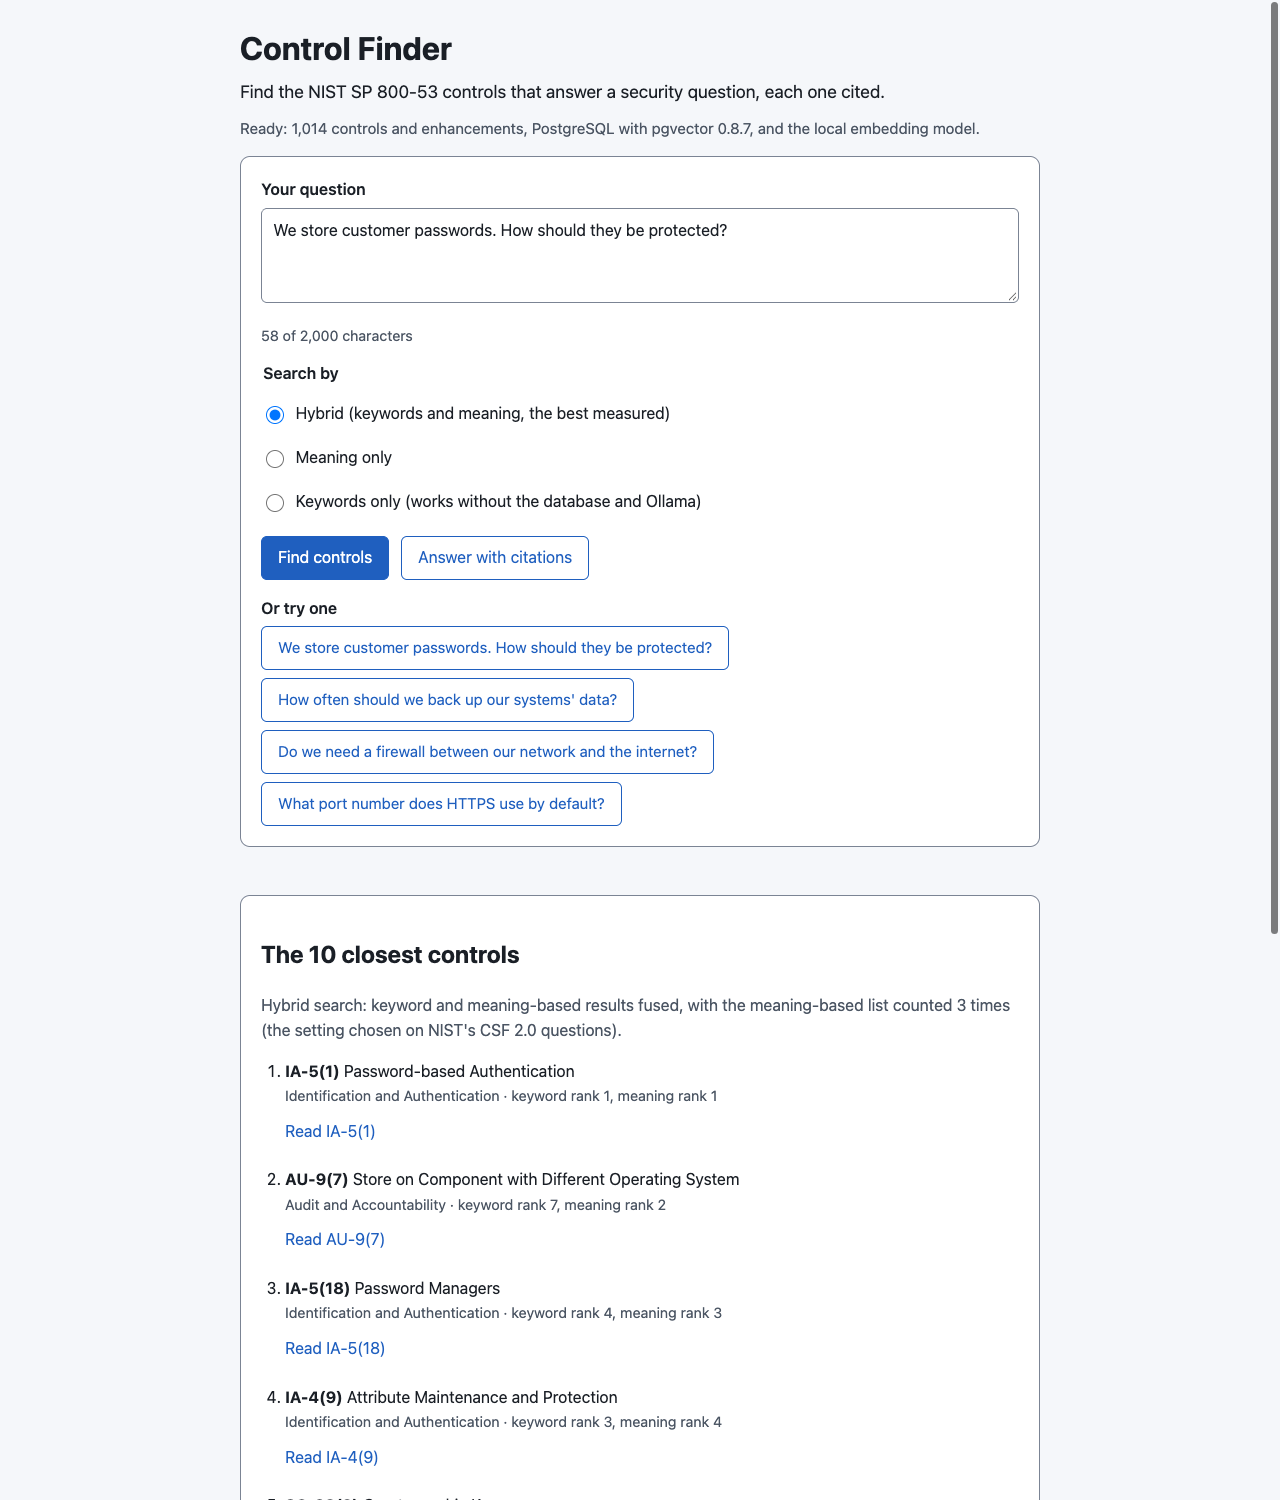
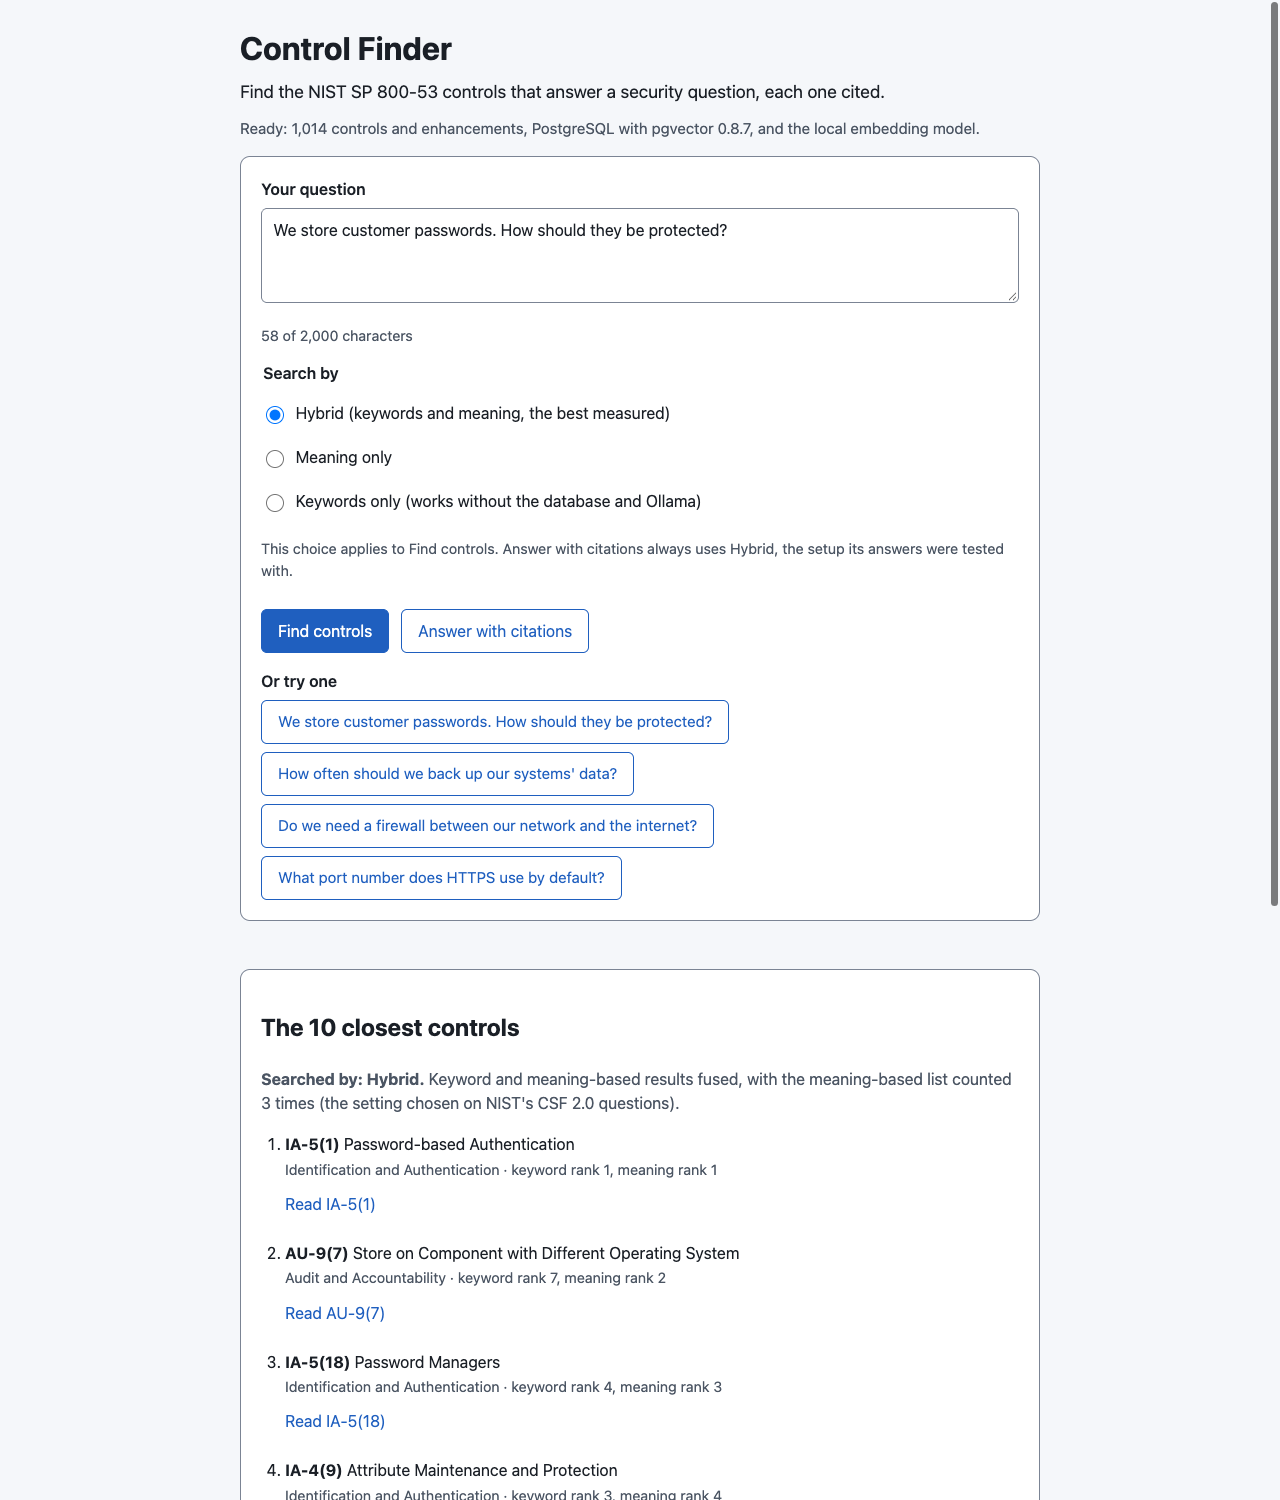
Website: say which search each list and answer used (#12)
The "Search by" choice changes only Find controls, but the page didn't say so.
Answers always use hybrid search, the setup they were measured with, so they
came out the same whatever was picked. And changing the choice left the
earlier results on the page with nothing to say they were stale.

- Every list now starts with "Searched by:" and the choice's name, in the
  form's own words.
- A note under the choices says answers always use Hybrid, and the answer
  says the model saw the Hybrid search's top 10.
- Changing the choice after a search shows a notice asking for a new search.
- 3 new website tests (23 in all). The browser check has 4 new checks, and
  25 of 25 pass. 5 planted bugs were each caught (4 by the website tests,
  1 by the browser check).
- The README and the write-up are updated, and the screenshots retaken.

Changed region(s): [[0.1875, 0.3373, 0.7812, 1.0]]

diff --git a/web/src/App.test.tsx b/web/src/App.test.tsx
@@ -2,17 +2,18 @@
 import { renderToStaticMarkup } from "react-dom/server";
 import { describe, expect, it } from "vitest";
 import { CONTENT_SECURITY_POLICY } from "../vite.config";
-import { EXAMPLES, Page, type View } from "./App";
+import { EXAMPLES, METHODS, Page, type View } from "./App";
 import { Detail } from "./components/ControlText";
+import { METHOD_NAMES } from "./components/Results";
 import type { Fetch } from "./lib/api";
-import type { AnswerResponse, SearchResponse } from "./lib/types";
+import type { AnswerResponse, Method, SearchResponse } from "./lib/types";
 
 const noFetch: Fetch = async () => {
   throw new Error("no network in these tests");
 };
-const render = (view: View, question = "We store customer passwords. How should they be protected?") =>
+const render = (view: View, question = "We store customer passwords. How should they be protected?", method: Method = "hybrid") =>
   renderToStaticMarkup(
-    <Page question={question} method="hybrid" view={view} status={null} fetchFn={noFetch} onQuestion={() => {}} onMethod={() => {}} onRun={() => {}} />,
+    <Page question={question} method={method} view={view} status={null} fetchFn={noFetch} onQuestion={() => {}} onMethod={() => {}} onRun={() => {}} />,
   );
 
 const results: SearchResponse = {
@@ -65,7 +66,29 @@ describe("the page", () => {
     expect(html).toContain('<span class="badge covered">Covered</span>');
     expect(html).toContain("in 4.3 s");
     expect(html).toContain("Cited controls");
-    expect(html).toContain("From a local model (qwen3:8b) that saw only the search&#x27;s top 2 controls: IA-5(18), IA-5(1)."); // as NIST prints them
+    expect(html).toContain("From a local model (qwen3:8b) that saw only the Hybrid search&#x27;s top 2 controls: IA-5(18), IA-5(1)."); // as NIST prints them
+  });
+
+  it("says the search choice applies to Find controls, and that answers always use Hybrid", () => {
+    const html = render({ kind: "idle" }, "");
+    expect(html).toContain('<fieldset aria-describedby="method-note">');
+    expect(html).toContain("This choice applies to Find controls. Answer with citations always uses Hybrid");
+    for (const m of METHODS) expect(m.label.startsWith(METHOD_NAMES[m.value]), m.value).toBe(true); // the same names everywhere
+  });
+
+  it("names the choice that found each list", () => {
+    for (const method of ["hybrid", "vector", "keyword"] as const) {
+      const html = render({ kind: "results", data: { ...results, method } }, undefined, method);
+      expect(html).toContain(`<strong>Searched by: ${METHOD_NAMES[method]}.</strong>`);
+      expect(html).not.toContain("You changed");
+    }
+  });
+
+  it("asks for a new search when the choice changes after one", () => {
+    const html = render({ kind: "results", data: results }, undefined, "vector");
+    expect(html).toContain("<strong>Searched by: Hybrid.</strong>"); // the list on the page is still hybrid's
+    expect(html).toContain("You changed &quot;Search by&quot; to &quot;Meaning only&quot;. Click Find controls to search again.");
+    expect(render({ kind: "answer", data: covered, seconds: 4.33 }, undefined, "keyword")).not.toContain("You changed"); // answers don't depend on it
   });
 
   it("shows a not-covered answer without citations", () => {

diff --git a/web/src/App.tsx b/web/src/App.tsx
@@ -1,6 +1,6 @@
 import { useEffect, useRef, useState } from "react";
 import { AnswerCard } from "./components/AnswerCard";
-import { Results } from "./components/Results";
+import { METHOD_NAMES, Results } from "./components/Results";
 import { answer, browserFetch, health, MAX_QUESTION, search, statusLine, type Fetch } from "./lib/api";
 import type { AnswerResponse, Health, Method, SearchResponse } from "./lib/types";
 
@@ -12,7 +12,7 @@ export const EXAMPLES = [
   "What port number does HTTPS use by default?",
 ];
 
-const METHODS: { value: Method; label: string }[] = [
+export const METHODS: { value: Method; label: string }[] = [
   { value: "hybrid", label: "Hybrid (keywords and meaning, the best measured)" },
   { value: "vector", label: "Meaning only" },
   { value: "keyword", label: "Keywords only (works without the database and Ollama)" },
@@ -40,6 +40,8 @@ interface PageProps {
 export function Page({ question, method, view, status, fetchFn, onQuestion, onMethod, onRun }: PageProps) {
   const s = statusLine(status);
   const busy = view.kind === "busy";
+  // The list on the page came from another choice than the one now picked.
+  const changedTo = view.kind === "results" && view.data.method !== method ? method : null;
   return (
     <>
       <a className="skip" href="#question">
@@ -74,7 +76,7 @@ export function Page({ question, method, view, status, fetchFn, onQuestion, onMe
           <p className="muted small">
             {question.length.toLocaleString("en-US")} of {MAX_QUESTION.toLocaleString("en-US")} characters
           </p>
-          <fieldset>
+          <fieldset aria-describedby="method-note">
             <legend className="field-label">Search by</legend>
             {METHODS.map((m) => (
               <label key={m.value} className="choice">
@@ -82,6 +84,9 @@ export function Page({ question, method, view, status, fetchFn, onQuestion, onMe
                 {m.label}
               </label>
             ))}
+            <p id="method-note" className="muted small">
+              This choice applies to Find controls. Answer with citations always uses Hybrid, the setup its answers were tested with.
+            </p>
           </fieldset>
           <div className="actions">
             <button type="submit" disabled={busy}>
@@ -107,6 +112,11 @@ export function Page({ question, method, view, status, fetchFn, onQuestion, onMe
         <div aria-live="polite" className="busy">
           {view.kind === "busy" &&
             (view.what === "search" ? "Searching…" : "Asking the local model. An answer takes a few seconds, longer the first time.")}
+          {changedTo && (
+            <span className="notice">
+              You changed "Search by" to "{METHOD_NAMES[changedTo]}". Click Find controls to search again.
+            </span>
+          )}
         </div>
         {view.kind === "error" && (
           <p role="alert" className="card error">

diff --git a/web/src/components/Results.tsx b/web/src/components/Results.tsx
@@ -1,11 +1,14 @@
 import type { Fetch } from "../lib/api";
-import type { Found, SearchResponse } from "../lib/types";
+import type { Found, Method, SearchResponse } from "../lib/types";
 import { ControlText } from "./ControlText";
 
+// The names of the form's "Search by" choices, so a list says which choice found it.
+export const METHOD_NAMES: Record<Method, string> = { hybrid: "Hybrid", vector: "Meaning only", keyword: "Keywords only" };
+
 const METHOD_NOTES = {
-  hybrid: "Hybrid search: keyword and meaning-based results fused, with the meaning-based list counted 3 times (the setting chosen on NIST's CSF 2.0 questions).",
-  vector: "Search by meaning, with the local embedding model (nomic-embed-text).",
-  keyword: "Keyword search (BM25). It works even when the database or the embedding model isn't running.",
+  hybrid: "Keyword and meaning-based results fused, with the meaning-based list counted 3 times (the setting chosen on NIST's CSF 2.0 questions).",
+  vector: "It compares the question's meaning with each control's, using the local embedding model (nomic-embed-text).",
+  keyword: "It matches the question's words (BM25 keyword search), and works even when the database or the embedding model isn't running.",
 };
 
 function ranks(r: Found): string {
@@ -20,7 +23,9 @@ export function Results({ data, fetchFn }: { data: SearchResponse; fetchFn: Fetc
       <h2 id="results-heading" tabIndex={-1}>
         {n === 0 ? "No controls found" : `The ${n} closest control${n === 1 ? "" : "s"}`}
       </h2>
-      <p className="muted">{METHOD_NOTES[data.method]}</p>
+      <p className="muted">
+        <strong>Searched by: {METHOD_NAMES[data.method]}.</strong> {METHOD_NOTES[data.method]}
+      </p>
       {n === 0 && <p>No control shares the question's words. Try hybrid search, which also searches by meaning.</p>}
       <ol className="results">
         {data.results.map((r) => (

diff --git a/web/src/components/AnswerCard.tsx b/web/src/components/AnswerCard.tsx
@@ -29,7 +29,7 @@ export function AnswerCard({ data, seconds, fetchFn }: { data: AnswerResponse; s
         </>
       )}
       <p className="muted small">
-        From a local model ({data.model}) that saw only the search's top {data.shown.length} controls: {data.shown.map(labelOf).join(", ")}. Its
+        From a local model ({data.model}) that saw only the Hybrid search's top {data.shown.length} controls: {data.shown.map(labelOf).join(", ")}. Its
         citations can only name those. Check a cited control's text before relying on it.
       </p>
     </section>

diff --git a/web/src/styles.css b/web/src/styles.css
@@ -192,6 +192,14 @@ button.example {
   color: var(--muted);
 }
 
+.notice {
+  display: inline-block;
+  background: var(--warn-bg);
+  color: var(--warn-text);
+  padding: 0.35rem 0.75rem;
+  border-radius: 6px;
+}
+
 .error {
   background: var(--error-bg);
   color: var(--error-text);

diff --git a/docs/write-up.md b/docs/write-up.md
@@ -55,9 +55,11 @@ The main weakness is citing too much: 4.15 controls per answer on NIST's test qu
 An MCP server gives Claude Desktop, Claude Code, and other MCP clients three read-only tools: `search_controls`, `get_control`, and `answer_question`. It searches in memory, which the database step showed gives the same rankings, so it needs only Ollama. Over stdio, with the model embedding each question live, it gave the published top 20 for all 203 questions, connected in 336 ms, and answered later searches in 12.7 ms. Its instructions ask the assistant to cite controls by label, describe only what a control's text says, and pass on "not covered" instead of answering from general knowledge.
 
 ## Seeing it work: a local website
-A small React and TypeScript website, served by the API at http://127.0.0.1:8000/, puts it all on one page. You type a question, see the closest controls, open any control's text and what an assessor checks, or ask for a cited answer. One script starts everything. A browser check clicks through the site in headless Chrome on a desktop and a phone, in light and dark mode, and all 21 of its checks pass. Every color pair meets WCAG AA contrast in both themes, and the page may only talk to its own API.
+A small React and TypeScript website, served by the API at http://127.0.0.1:8000/, puts it all on one page. You type a question, see the closest controls, open any control's text and what an assessor checks, or ask for a cited answer. One script starts everything. A browser check clicks through the site in headless Chrome on a desktop and a phone, in light and dark mode, and all 25 of its checks pass. Every color pair meets WCAG AA contrast in both themes, and the page may only talk to its own API.
 
 Looking at the screenshots caught a bug the tests had missed: the line listing the controls the model saw showed ids like "ia-5.1" instead of NIST's labels like "IA-5(1)". The API sends ids there, but my test data had used labels. The test data now matches the API, and the browser check looks for the labels.
+
+Trying the site by hand found a second problem: the "Search by" choice seemed to do nothing. It applies only to Find controls, because answers always use hybrid search, the setup they were measured with. And changing it left the earlier results on the page with nothing to say they were stale. The page now says which search found every list and answer, notes under the choice that answers always use hybrid, and asks for a new search when the choice changes.
 
 ## What I'd do next
 - **Cite less.** Ask for the single best control first, or rerank before answering, and measure whether precision rises without losing recall.
@@ -68,5 +70,5 @@ Looking at the screenshots caught a bug the tests had missed: the line listing t
 ## How it's checked
 - 110 Python tests run on every change, with the website's own tests, in GitHub Actions pinned to exact commits, with read-only permissions. The 11 database tests run against a pgvector container pinned by digest.
 - The embeddings, the vector lists, every reranker score, and every model answer are committed, so CI recomputes every published number without running a model.
-- Each step planted bugs on purpose to test the tests, 74 in all, and every one was caught; one was caught only after a test was added for it.
+- Each step planted bugs on purpose to test the tests, 79 in all, and every one was caught; one was caught only after a test was added for it.
 - All models run locally through Ollama, so the project costs $0 to run, and it uses only NIST's public-domain data.

diff --git a/README.md b/README.md
@@ -14,8 +14,9 @@ The first time, you'll need the Python setup in [Run it](#run-it), Docker Deskto
 ![The answer to "We store customer passwords. How should they be protected?": covered, citing IA-5(1) and IA-5(18), with the 10 controls the model was shown](docs/screenshots/answer-desktop-light.png)
 
 - Type a question or pick an example. **Find controls** lists the 10 closest controls, each with NIST's text and what an assessor checks. **Answer with citations** gives the local model's answer, citing only controls it was shown.
+- **Search by** picks hybrid, meaning-only, or keyword search for Find controls, and every list says which one found it. Answers always use hybrid search, the setup they were measured with, and the page says so.
 - A question the catalog doesn't cover, such as the HTTPS port, gets "Not covered" and a fixed sentence.
-- A browser check (`node scripts/check_website.mjs`) clicks through the site in headless Chrome on a desktop and a phone, in light and dark mode: 21 of 21 checks pass. More pictures: [search on a desktop](docs/screenshots/search-desktop-light.png), [an answer in dark mode](docs/screenshots/answer-desktop-dark.png), [search on a phone](docs/screenshots/search-phone-light.png).
+- A browser check (`node scripts/check_website.mjs`) clicks through the site in headless Chrome on a desktop and a phone, in light and dark mode: 25 of 25 checks pass. More pictures: [search on a desktop](docs/screenshots/search-desktop-light.png), [an answer in dark mode](docs/screenshots/answer-desktop-dark.png), [search on a phone](docs/screenshots/search-phone-light.png).
 
 ## Results so far
 Three ways to search the 1,014 active controls and enhancements, scored on the test questions of two answer keys built from NIST's own data. Settings were chosen on dev questions only; each method was scored once on test. Details: [keyword search](docs/results.md), [vector and hybrid search](docs/results-vector-hybrid.md), [weighting and reranking](docs/results-rerank.md).
